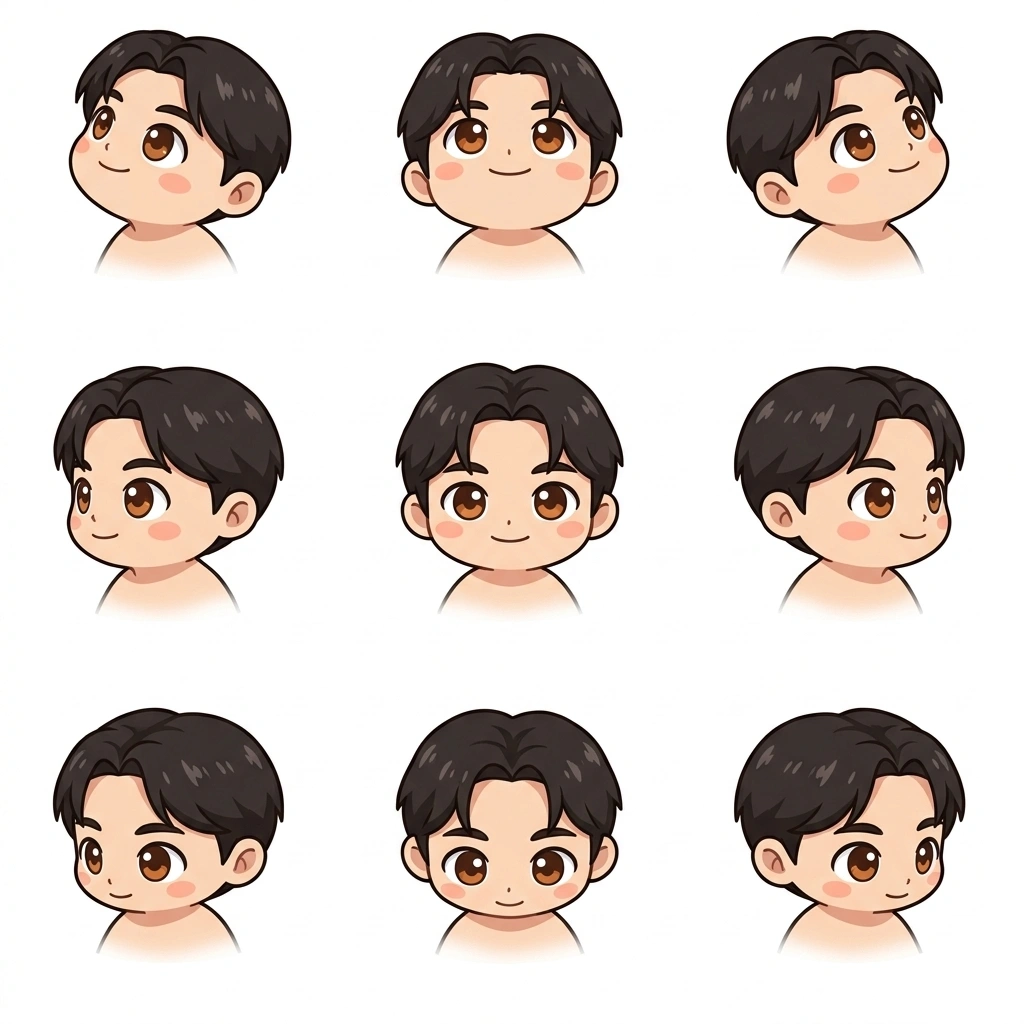
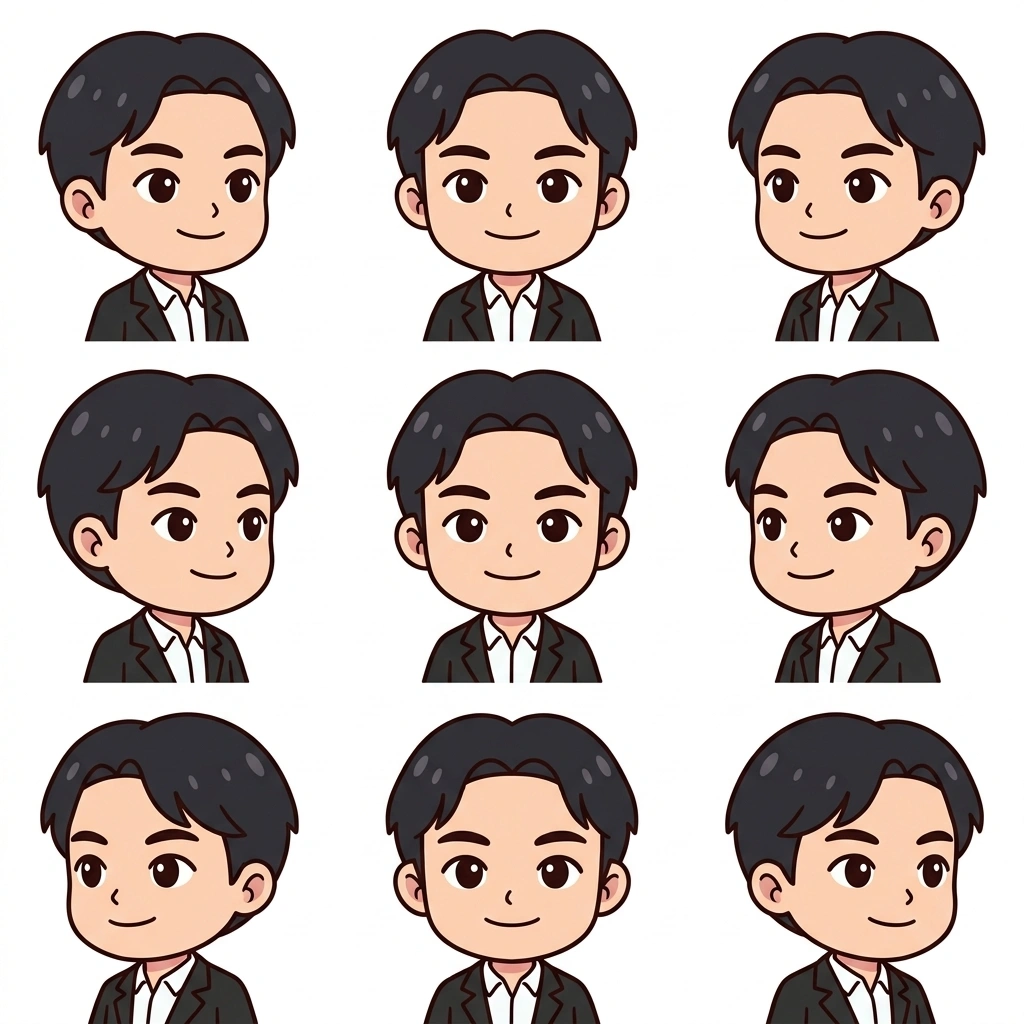
Allow interactive boop on mascot and update suit sprite

diff --git a/src/styles/global.css b/src/styles/global.css
@@ -217,36 +217,20 @@ pre code {
   transition: background-color var(--duration-norm) ease, border-color var(--duration-norm) ease, box-shadow var(--duration-norm) ease;
 }
 
-.brand {
+.brand-group {
   display: flex;
   align-items: center;
   gap: 10px;
-  text-decoration: none;
   margin-right: auto;
 }
 
-.brand > span:not([type="button"]) {
-  display: grid;
-  place-items: center;
-  width: 34px;
-  height: 34px;
-  border: 1px solid var(--line);
-  border-radius: var(--radius-pill);
-  font-family: var(--font-mono);
-  font-weight: 700;
-  font-size: .68rem;
-  letter-spacing: .04em;
-  background: var(--surface-glass);
-  color: var(--ink);
-  box-shadow: var(--glass-bevel);
-  transition: transform var(--duration-fast) var(--ease-apple);
+.mascot-avatar {
+  display: flex;
+  align-items: center;
+  justify-content: center;
 }
 
-.brand:hover > span:not([type="button"]) {
-  transform: scale(1.06);
-}
-
-.brand button[type="button"] {
+.mascot-avatar button[type="button"] {
   display: flex !important;
   align-items: center;
   justify-content: center;
@@ -261,9 +245,15 @@ pre code {
   transition: transform var(--duration-fast) var(--ease-apple), border-color var(--duration-fast) var(--ease-apple);
 }
 
-.brand:hover button[type="button"] {
-  transform: scale(1.08);
+.mascot-avatar:hover button[type="button"] {
+  transform: scale(1.1);
   border-color: var(--accent);
+}
+
+.brand {
+  display: flex;
+  align-items: center;
+  text-decoration: none;
 }
 
 .brand strong {
@@ -272,6 +262,11 @@ pre code {
   font-size: .92rem;
   letter-spacing: -.02em;
   color: var(--ink);
+  transition: color var(--duration-fast) var(--ease-apple);
+}
+
+.brand:hover strong {
+  color: var(--accent);
 }
 
 .site-header nav ul {
@@ -2409,16 +2404,12 @@ footer small { grid-column: 1 / -1; }
     min-width: 52px;
   }
 
-  .brand {
+  .brand-group {
+    display: flex;
+    align-items: center;
     gap: 8px;
     min-width: 0;
     margin-right: auto;
-  }
-
-  .brand > span:not([type="button"]) {
-    width: 32px;
-    height: 32px;
-    flex: 0 0 auto;
   }
 
   .brand strong {
